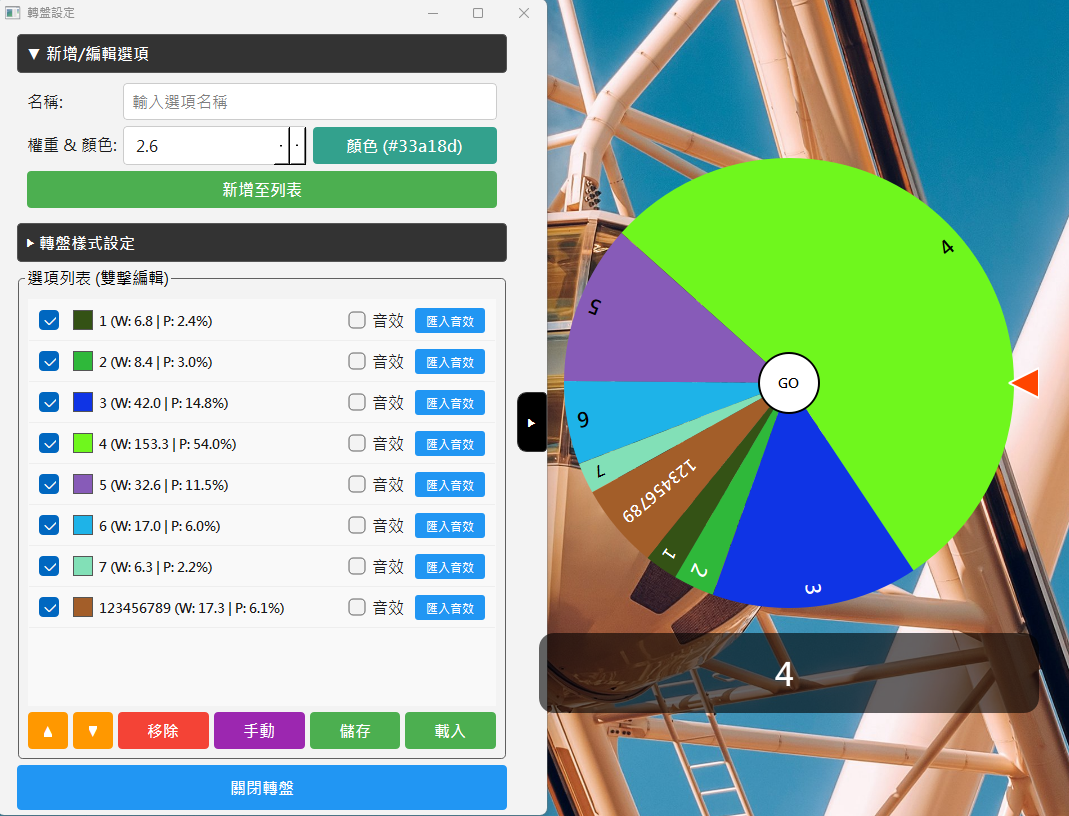
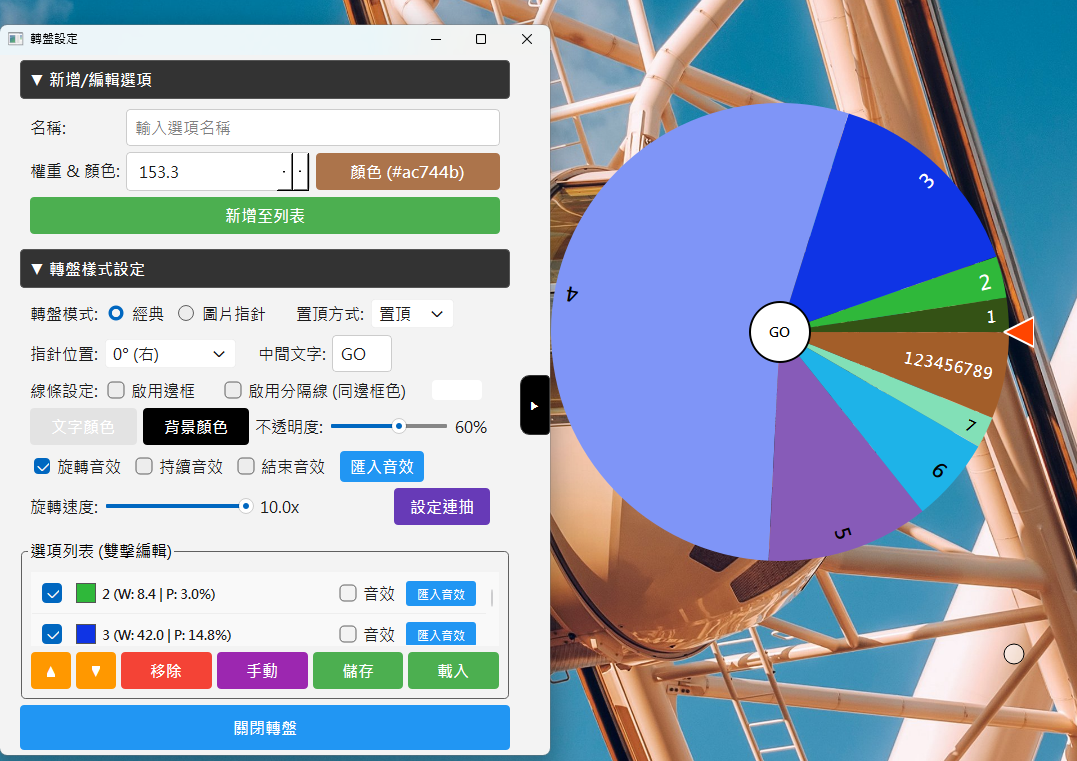
fin

diff --git a/readme.md b/readme.md
@@ -1,4 +1,4 @@
-# WHEE - 自定義轉盤 (Customizable Spinning Wheel)
+# WHEEL - 自定義轉盤 (Customizable Spinning Wheel)
 
 這是一個高度靈活且可自定義的轉盤應用程式，專為抽獎、決策制定以及實況直播使用而設計。
 
@@ -6,19 +6,19 @@
 
 ## 功能特色
 
--   **雙重視覺模式**：
+-   **雙重轉盤模式**：
     -   **經典模式**：傳統轉盤模式，轉盤相對於固定指針旋轉。
-    -   **圖片指針模式**：指針（自定義圖片）繞著固定的轉盤背景旋轉。
+    -   **圖片指針模式**：指針（或自定義圖片）繞著固定的轉盤背景旋轉。
 -   **進階自定義**：
-    -   **權重調整**：可為每個選項設定不同的機率權重。
+    -   **權重調整**：可為每個選項設定不同的機率權重，也能手動調整權重。
     -   **視覺風格**：自定義選項顏色、可調整的邊框顏色，以及輔助線樣式（包含高對比外框）。
     -   **圖片支援**：可匯入自定義圖片作為中心指針。
 -   **音效整合**：
-    -   支援自定義 **Tick (指針撥動聲)**、**Loop (旋轉循環聲)** 和 **Finish (結束音效)**。
+    -   支援自定義 **Tick (指針撥動聲)**、**Loop (旋轉循環聲)** 和 **Finish (結束音效)**，還有轉到特定選項的音效。
     -   相容 `.mp3` 與 `.wav` 格式。
 -   **直播疊加與透明支援**：
     -   **透明背景**支援，適合 OBS 等直播軟體疊加使用。
-    -   **OBS 視窗擷取**：專為 OBS 優化的視窗類別，可直接使用「視窗擷取」來源。
+    -   **OBS 視窗擷取**：專為 OBS 優化的視窗類別，可直接使用「視窗擷取(擷取方式要設定成 WINDOWS 10)」。
     -   **視窗置頂**選項。
     -   無邊框視窗設計，視覺整合更乾淨。
 -   **物理引擎**：
